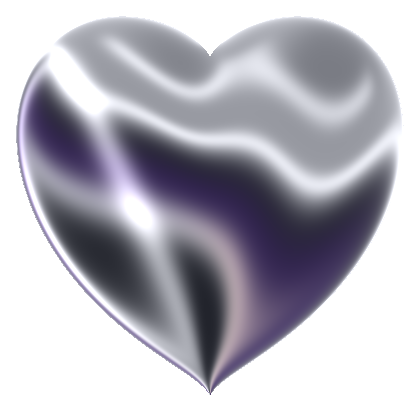
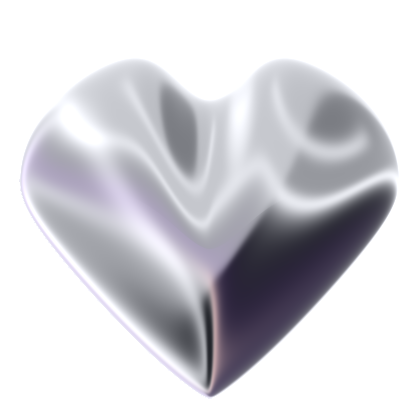
Reshape the chrome heart and show feed loading progress

diff --git a/blub-web/app/feed/page.tsx b/blub-web/app/feed/page.tsx
@@ -1,6 +1,7 @@
 "use client";
 import {useEffect,useState,FormEvent} from 'react';
-import {House,Users,Plus,Camera,Lock,Clock3,X,LogOut,ImagePlus,Check,Search,Trash2,LoaderCircle,Sparkles,UserRound,Heart} from 'lucide-react';
+import {House,Users,Plus,Camera,Lock,Clock3,X,LogOut,ImagePlus,Check,Search,Trash2,Sparkles,UserRound,Heart} from 'lucide-react';
+import { FeedLoader } from "./feed-loader";
 import { PostInteractions } from "./post-interactions";
 type Person={id:string;name:string;handle:string;bio:string};
 type Post={like_count:number;liked:number;comment_count:number;id:string;caption:string;created_at:number;name:string;handle:string;author:string};
@@ -12,8 +13,42 @@ const initial:Data={authenticated:false,me:null,posts:[],friends:[]};
 function Avatar({name,size=''}:{name:string;size?:string}){return <span className={'avatar '+size}>{name.slice(0,1).toUpperCase()}</span>}
 export default function Feed(){
  const [data,setData]=useState<Data>(initial),[loading,setLoading]=useState(true),[tab,setTab]=useState('feed'),[modal,setModal]=useState(''),[error,setError]=useState(''),[busy,setBusy]=useState(false),[query,setQuery]=useState(''),[results,setResults]=useState<Person[]>([]),[preview,setPreview]=useState(''),[file,setFile]=useState<File|null>(null),[notice,setNotice]=useState(''),[pendingAction,setPendingAction]=useState<PendingAction|null>(null);
- async function load(){const r=await fetch('/api/blub');const d=await r.json() as ApiResult;if(!r.ok)throw Error(d.error||"Something went wrong. Please try again.");setData({...initial,...d});}
- useEffect(()=>{load().catch(e=>setError(e.message)).finally(()=>setLoading(false))},[]);
+ const [pendingPhotos,setPendingPhotos]=useState<string[]>([]);
+ const [photoTotal,setPhotoTotal]=useState(0);
+ const showingLoader=loading || pendingPhotos.length>0;
+ async function load(signal?:AbortSignal){
+   const r=await fetch('/api/blub',{signal});
+   const d=await r.json() as ApiResult;
+   if(!r.ok)throw Error(d.error||"Something went wrong. Please try again.");
+   if(!signal?.aborted)setData({...initial,...d});
+   return d;
+ }
+ useEffect(()=>{
+   const controller=new AbortController();
+   const timeout=window.setTimeout(()=>controller.abort(),15000);
+   let active=true;
+   load(controller.signal).then(result=>{
+     if(!active)return;
+     const ids=(result.posts??[]).slice(0,2).map(post=>post.id);
+     setPhotoTotal(ids.length);
+     setPendingPhotos(ids);
+   }).catch(e=>{
+     if(active)setError(controller.signal.aborted?"The feed took too long to load. Refresh to try again.":e.message);
+   }).finally(()=>{
+     clearTimeout(timeout);
+     if(active)setLoading(false);
+   });
+   return ()=>{active=false;clearTimeout(timeout);controller.abort();};
+ },[]);
+ useEffect(()=>{
+   if(!photoTotal)return;
+   // A slow photo can finish inline once the feed is usable.
+   const timeout=window.setTimeout(()=>setPendingPhotos([]),2200);
+   return ()=>clearTimeout(timeout);
+ },[photoTotal]);
+ function photoSettled(id:string){
+   setPendingPhotos(ids=>ids.includes(id)?ids.filter(value=>value!==id):ids);
+ }
  useEffect(()=>()=>{if(preview)URL.revokeObjectURL(preview)},[preview]);
  useEffect(()=>{if(!modal)return;const previous=document.activeElement as HTMLElement;const element=document.querySelector('.modal') as HTMLElement;const controls=()=>Array.from(element.querySelectorAll<HTMLElement>('button:not(:disabled),a[href],input,textarea')).filter(x=>x.offsetParent!==null);controls()[1]?.focus();function key(e:KeyboardEvent){if(e.key==='Escape'&&!busy)setModal('');if(e.key==='Tab'){const list=controls(),first=list[0],last=list[list.length-1];if(e.shiftKey&&document.activeElement===first){e.preventDefault();last?.focus()}else if(!e.shiftKey&&document.activeElement===last){e.preventDefault();first?.focus()}}}document.addEventListener('keydown',key);const old=document.body.style.overflow;document.body.style.overflow='hidden';return()=>{document.removeEventListener('keydown',key);document.body.style.overflow=old;previous?.focus()}},[modal,busy]);
  async function act(body:Record<string,string>){setBusy(true);setError('');try{const r=await fetch('/api/blub',{method:'POST',headers:{'Content-Type':'application/json'},body:JSON.stringify(body)});const d=await r.json() as ApiResult;if(!r.ok)throw Error(d.error||"Something went wrong. Please try again.");await load();return true;}catch(e){setError((e as Error).message);return false;}finally{setBusy(false)}}
@@ -23,19 +58,19 @@ export default function Feed(){
  async function publish(e:FormEvent<HTMLFormElement>){e.preventDefault();if(!file)return;setBusy(true);setError('');const f=new FormData(e.currentTarget);f.set('photo',file);try{const r=await fetch('/api/blub',{method:'POST',body:f});const d=await r.json() as ApiResult;if(!r.ok)throw Error(d.error||"Something went wrong. Please try again.");await load();setModal('');setFile(null);setPreview('');setNotice('Photo posted.')}catch(e){setError((e as Error).message)}finally{setBusy(false)}}
  async function search(e:FormEvent){e.preventDefault();setBusy(true);setError('');try{const r=await fetch('/api/blub?action=search&q='+encodeURIComponent(query));const d=await r.json() as ApiResult;if(!r.ok)throw Error(d.error||"Something went wrong. Please try again.");setResults(d.users||[]);if(!d.users?.length)setNotice('No matching handles found.')}catch(e){setError((e as Error).message)}finally{setBusy(false)}}
  const accepted=data.friends.filter(f=>f.status==='accepted'),incoming=data.friends.filter(f=>f.status==='pending'&&f.recipient===data.me?.id);
- return <div className="app-shell"><header className="site-header"><div className="header-inner"><a className="wordmark" href="/" aria-label="Blub home"><img className="brand-symbol" src="/blub-icon.png" alt="" width="34" height="34"/>blub</a><nav className="desktop-nav" aria-label="Main navigation"><button className={tab==='feed'?'active':''} aria-current={tab==='feed'?'page':undefined} onClick={()=>setTab('feed')}><House size={17}/>Feed</button><button className={tab==='friends'?'active':''} aria-current={tab==='friends'?'page':undefined} onClick={()=>{if(data.me)setTab('friends');else open('profile')}}><Users size={17}/>Friends{incoming.length>0&&<span className="count">{incoming.length}</span>}</button><button className={tab==='profile'?'active':''} aria-current={tab==='profile'?'page':undefined} onClick={()=>{if(data.me)setTab('profile');else open('profile')}}><UserRound size={17}/>Profile</button></nav><div className="header-actions"><button className="primary header-share" onClick={()=>open('post')}><Plus size={17}/>Post a photo</button>{data.me?<button className="account-button" aria-label="Edit your profile" onClick={()=>open('profile')}><Avatar name={data.me.name}/></button>:<a className="signin-link" href="/signin-with-chatgpt?return_to=%2Ffeed" target="_top">Sign in</a>}</div></div></header>
+ return <>{showingLoader && <FeedLoader done={1+photoTotal-pendingPhotos.length} total={loading?undefined:1+photoTotal}/>}<div className="app-shell" inert={showingLoader}><header className="site-header"><div className="header-inner"><a className="wordmark" href="/" aria-label="Blub home"><img className="brand-symbol" src="/blub-icon.png" alt="" width="34" height="34"/>blub</a><nav className="desktop-nav" aria-label="Main navigation"><button className={tab==='feed'?'active':''} aria-current={tab==='feed'?'page':undefined} onClick={()=>setTab('feed')}><House size={17}/>Feed</button><button className={tab==='friends'?'active':''} aria-current={tab==='friends'?'page':undefined} onClick={()=>{if(data.me)setTab('friends');else open('profile')}}><Users size={17}/>Friends{incoming.length>0&&<span className="count">{incoming.length}</span>}</button><button className={tab==='profile'?'active':''} aria-current={tab==='profile'?'page':undefined} onClick={()=>{if(data.me)setTab('profile');else open('profile')}}><UserRound size={17}/>Profile</button></nav><div className="header-actions"><button className="primary header-share" onClick={()=>open('post')}><Plus size={17}/>Post a photo</button>{data.me?<button className="account-button" aria-label="Edit your profile" onClick={()=>open('profile')}><Avatar name={data.me.name}/></button>:<a className="signin-link" href="/signin-with-chatgpt?return_to=%2Ffeed" target="_top">Sign in</a>}</div></div></header>
  <main><div className="topbar"><span>Photos from friends</span><span className="private-label"><Lock size={13}/>Friends only</span></div><div className="content-grid"><section className="main-column"><div className="page-heading"><div><div className="eyebrow">{tab==='friends'?'FRIENDS':tab==='profile'?'PROFILE':'BLUB'}</div><h1>{tab==='friends'?<>Your <span className="gradient-text">friends.</span></>:tab==='profile'?<>Your <span className="gradient-text">profile.</span></>:<>Your <span className="gradient-text">feed.</span></>}</h1><p>{tab==='friends'?'Find friends and manage requests.':tab==='profile'?'Your profile and photos.':'Photos from you and your friends.'}</p></div><span className="heading-orbit" aria-hidden="true"><Sparkles size={26}/></span></div>
  {error&&<div className="alert" role="alert">{error}<button onClick={()=>setError('')} aria-label="Dismiss error"><X size={16}/></button></div>}
  {notice&&<div className="notice" role="status">{notice}<button onClick={()=>setNotice('')} aria-label="Dismiss notification"><X size={16}/></button></div>}
- {loading?<div className="loading"><LoaderCircle className="spin"/>Loading…</div>:tab==='friends'?<><div className="section-title"><h2>Find your friends</h2><span>By their Blub handle</span></div><form className="search-form" onSubmit={search}><Search size={20}/><input aria-label="Find by handle" placeholder="Search @handle" value={query} onChange={e=>setQuery(e.target.value)} minLength={2} required/><button disabled={busy}>Find</button></form>{results.map(p=>{const f=data.friends.find(f=>f.sender===p.id||f.recipient===p.id);return <div className="person-row" key={p.id}><Avatar name={p.name}/><div><b>{p.name}</b><small>@{p.handle}</small></div>{f?<span className="pill">{f.status==='accepted'?'Friends':'Request pending'}</span>:<button disabled={busy} className="small-button" onClick={()=>act({action:'request',user:p.id})}>Add friend</button>}</div>})}<h2 className="list-heading">Friend requests {incoming.length>0&&`(${incoming.length})`}</h2>{incoming.length===0&&<p className="muted">No pending requests.</p>}{incoming.map(f=><div className="person-row" key={f.id}><Avatar name={f.name}/><div><b>{f.name}</b><small>@{f.handle}</small></div><button disabled={busy} className="small-button" onClick={()=>act({action:'accept',id:f.id})}>Accept</button><button disabled={busy} className="text-button" onClick={()=>act({action:'remove',id:f.id})}>Decline</button></div>)}<h2 className="list-heading">Friends · {accepted.length}</h2>{data.friends.filter(f=>!incoming.includes(f)).map(f=><div className="person-row" key={f.id}><Avatar name={f.name}/><div><b>{f.name}</b><small>@{f.handle} · {f.status==='accepted'?'Friends':'Request sent'}</small></div><button disabled={busy} className="text-button" onClick={()=>{askConfirmation({action:'remove',id:f.id,title:f.status==='accepted'?'Remove this friend?':'Cancel this request?',description:f.status==='accepted'?'You’ll no longer see each other’s photos. You can send a new friend request later.':'They won’t be able to accept this request. You can send a new request later.',label:f.status==='accepted'?'Remove friend':'Cancel request'})}}>{f.status==='accepted'?'Remove':'Cancel'}</button></div>)}{!data.friends.length&&<div className="soft-card"><Users/><h3>No friends added yet.</h3><p>Ask a friend for their handle, then send a request above. Photos are shared only after they accept.</p></div>}</>:<>
+ {loading?null:tab==='friends'?<><div className="section-title"><h2>Find your friends</h2><span>By their Blub handle</span></div><form className="search-form" onSubmit={search}><Search size={20}/><input aria-label="Find by handle" placeholder="Search @handle" value={query} onChange={e=>setQuery(e.target.value)} minLength={2} required/><button disabled={busy}>Find</button></form>{results.map(p=>{const f=data.friends.find(f=>f.sender===p.id||f.recipient===p.id);return <div className="person-row" key={p.id}><Avatar name={p.name}/><div><b>{p.name}</b><small>@{p.handle}</small></div>{f?<span className="pill">{f.status==='accepted'?'Friends':'Request pending'}</span>:<button disabled={busy} className="small-button" onClick={()=>act({action:'request',user:p.id})}>Add friend</button>}</div>})}<h2 className="list-heading">Friend requests {incoming.length>0&&`(${incoming.length})`}</h2>{incoming.length===0&&<p className="muted">No pending requests.</p>}{incoming.map(f=><div className="person-row" key={f.id}><Avatar name={f.name}/><div><b>{f.name}</b><small>@{f.handle}</small></div><button disabled={busy} className="small-button" onClick={()=>act({action:'accept',id:f.id})}>Accept</button><button disabled={busy} className="text-button" onClick={()=>act({action:'remove',id:f.id})}>Decline</button></div>)}<h2 className="list-heading">Friends · {accepted.length}</h2>{data.friends.filter(f=>!incoming.includes(f)).map(f=><div className="person-row" key={f.id}><Avatar name={f.name}/><div><b>{f.name}</b><small>@{f.handle} · {f.status==='accepted'?'Friends':'Request sent'}</small></div><button disabled={busy} className="text-button" onClick={()=>{askConfirmation({action:'remove',id:f.id,title:f.status==='accepted'?'Remove this friend?':'Cancel this request?',description:f.status==='accepted'?'You’ll no longer see each other’s photos. You can send a new friend request later.':'They won’t be able to accept this request. You can send a new request later.',label:f.status==='accepted'?'Remove friend':'Cancel request'})}}>{f.status==='accepted'?'Remove':'Cancel'}</button></div>)}{!data.friends.length&&<div className="soft-card"><Users/><h3>No friends added yet.</h3><p>Ask a friend for their handle, then send a request above. Photos are shared only after they accept.</p></div>}</>:<>
  {tab==='profile'&&data.me&&<div className="profile-card"><Avatar name={data.me.name} size="large"/><div><h2>{data.me.name}</h2><p>@{data.me.handle}</p>{data.me.bio&&<p>{data.me.bio}</p>}</div><button className="text-button" onClick={()=>open('profile')}>Edit profile</button></div>}
  {tab==='feed'&&<button className="composer" onClick={()=>open('post')}><Avatar name={data.me?.name||'You'}/><span>Post a photo…</span><span className="composer-camera"><ImagePlus size={21}/></span></button>}
  <div className="feed-label"><h2>{tab==='profile'?'Your posts':'The latest'}</h2><span><Clock3 size={14}/>Newest first</span></div>
- {(tab==='profile'?data.posts.filter(p=>p.author===data.me?.id):data.posts).map(p=><article className="post" key={p.id}><header><Avatar name={p.name}/><div><b>{p.name}</b><small>@{p.handle} · {new Date(p.created_at).toLocaleDateString(undefined,{month:'short',day:'numeric'})}</small></div><Lock size={15}/>{p.author===data.me?.id&&<button className="icon-button" aria-label="Delete post" disabled={busy} onClick={()=>{askConfirmation({action:'delete',id:p.id,title:'Delete this post?',description:'This photo and its caption will be permanently removed from Blub.',label:'Delete post'})}}><Trash2 size={16}/></button>}</header><PostInteractions post={p} act={act} busy={busy}/><footer><span><Lock size={13}/>Friends only</span><time dateTime={new Date(p.created_at).toISOString()}>{new Date(p.created_at).toLocaleTimeString(undefined,{hour:"numeric",minute:"2-digit"})}</time></footer></article>)}
+ {(tab==='profile'?data.posts.filter(p=>p.author===data.me?.id):data.posts).map(p=><article className="post" key={p.id}><header><Avatar name={p.name}/><div><b>{p.name}</b><small>@{p.handle} · {new Date(p.created_at).toLocaleDateString(undefined,{month:'short',day:'numeric'})}</small></div><Lock size={15}/>{p.author===data.me?.id&&<button className="icon-button" aria-label="Delete post" disabled={busy} onClick={()=>{askConfirmation({action:'delete',id:p.id,title:'Delete this post?',description:'This photo and its caption will be permanently removed from Blub.',label:'Delete post'})}}><Trash2 size={16}/></button>}</header><PostInteractions post={p} act={act} busy={busy} onPhotoSettled={pendingPhotos.includes(p.id)?()=>photoSettled(p.id):undefined}/><footer><span><Lock size={13}/>Friends only</span><time dateTime={new Date(p.created_at).toISOString()}>{new Date(p.created_at).toLocaleTimeString(undefined,{hour:"numeric",minute:"2-digit"})}</time></footer></article>)}
  {!(tab==='profile'?data.posts.filter(p=>p.author===data.me?.id):data.posts).length&&<div className="welcome-card"><div className="welcome-art" aria-hidden="true"><span className="orbit orbit-one"/><span className="orbit orbit-two"/><span className="art-spark spark-one">✦</span><span className="art-spark spark-two">✧</span><div className="memory-card memory-back"><div className="memory-sunset"><span/></div><div className="memory-lines"><i/><i/></div></div><div className="memory-card memory-front"><div className="memory-flower"><span>●</span><i>●</i></div><div className="memory-lines"><i/><i/></div></div><span className="floating-heart"><Heart size={23} fill="currentColor"/></span></div><div className="welcome-copy"><span className="pill"><Lock size={13}/>Friends only</span><h2>No <span className="gradient-text">photos</span> yet.</h2><p>{tab==='profile'?'Your photos will appear here.':'Post a photo or add friends to see their posts here.'}</p><button className="primary" onClick={()=>open('post')}><Plus size={18}/>{!data.authenticated?'Sign in to Blub':!data.me?'Create your profile':'Post your first photo'}</button><small>{!data.authenticated?'Use your ChatGPT account to sign in.':'Only accepted friends can see your photos.'}</small></div></div>}
  {data.posts.length>0&&<div className="end-note"><p>{data.posts.length>=100?'Showing the latest 100 posts.':'End of feed.'}</p></div>}</>}
  </section><aside className="right-column"><div className="circle-card"><div className="section-title"><h3>Friends</h3><Users size={18}/></div><div className="circle-avatars">{accepted.length?accepted.slice(0,4).map(f=><Avatar name={f.name} key={f.id}/>):<><span className="circle-placeholder"><UserRound size={19}/></span><span className="circle-placeholder"><UserRound size={19}/></span><span className="circle-placeholder"><UserRound size={19}/></span></>}<button aria-label="Find friends" onClick={()=>{if(data.me)setTab('friends');else open('profile')}}><Plus size={19}/></button></div><p>{accepted.length?`${accepted.length} ${accepted.length===1?'friend':'friends'} added.`:'No friends added yet.'}</p><button className="secondary full" onClick={()=>{if(data.me)setTab('friends');else open('profile')}}>Find your friends</button></div>{(!data.me||!accepted.length||!data.posts.some(p=>p.author===data.me?.id))&&<div className="getting-started"><div className="section-title"><h3>Get started</h3><Sparkles size={17}/></div><button className="setup-step" onClick={()=>open('profile')}><span className={data.me?'step-icon complete':'step-icon'}>{data.me?<Check size={16}/>:<UserRound size={17}/>}</span><span><b>Create a profile</b><small>Choose your name and handle.</small></span></button><button className="setup-step" onClick={()=>{if(data.me)setTab('friends');else open('profile')}}><span className={accepted.length?'step-icon complete':'step-icon'}>{accepted.length?<Check size={16}/>:<Users size={17}/>}</span><span><b>Add a friend</b><small>Find them with their @handle.</small></span></button><button className="setup-step" onClick={()=>open('post')}><span className={data.posts.some(p=>p.author===data.me?.id)?'step-icon complete':'step-icon'}>{data.posts.some(p=>p.author===data.me?.id)?<Check size={16}/>:<Camera size={17}/>}</span><span><b>Post a photo</b><small>Choose a photo and add a caption.</small></span></button></div>}<div className="manifesto"><h3>Photo privacy</h3><p>Your photos are visible to you and accepted friends. Removing a friend ends their access to your posts.</p><div><Lock size={14}/>Friend requests must be accepted before photos are shared.</div></div><footer className="side-footer">blub <span>· Friends-only photos</span></footer></aside></div></main>
  <nav className="mobile-nav" aria-label="Mobile navigation"><button className={tab==='feed'?'selected':''} onClick={()=>setTab('feed')}><House/>Feed</button><button className={tab==='friends'?'selected':''} onClick={()=>{if(data.me)setTab('friends');else open('profile')}}><Users/>Friends</button><button className="mobile-add" aria-label="Post a photo" onClick={()=>open('post')}><Plus/></button><button className={tab==='profile'?'selected':''} onClick={()=>{if(data.me)setTab('profile');else open('profile')}}><Camera/>Profile</button></nav>
  {modal&&<div className="modal-backdrop" onClick={e=>{if(e.target===e.currentTarget&&!busy)setModal('')}}><section className="modal" role="dialog" aria-modal="true" aria-labelledby="modal-title"><button className="close icon-button" aria-label="Close dialog" disabled={busy} onClick={()=>setModal('')}><X/></button><div className="eyebrow">BLUB</div><h2 id="modal-title">{modal==='confirm'?pendingAction?.title:modal==='profile'?(data.me?'Edit profile':'Create your profile'): 'New post'}</h2><p className="muted">{modal==='confirm'?pendingAction?.description:modal==='profile'?'Pick a handle so your friends can find you.':'Choose a photo and add an optional caption.'}</p>{error&&<p className="alert" role="alert">{error}</p>}{modal==='confirm'?<div className="confirm-actions"><button className="secondary" disabled={busy} onClick={()=>setModal('')}>{pendingAction?.action==='delete'?'Keep post':'Go back'}</button><button className="primary danger" disabled={busy} onClick={async()=>{if(pendingAction&&await act({action:pendingAction.action,id:pendingAction.id})){setModal('');setPendingAction(null)}}}>{busy?'Saving…':pendingAction?.label}</button></div>:modal==='profile'?<form onSubmit={saveProfile}><label>Your name<input name="name" defaultValue={data.me?.name} autoFocus required maxLength={50} autoComplete="name"/></label><label>Your handle<input name="handle" defaultValue={data.me?.handle} required pattern="[a-z0-9_]{3,24}" minLength={3} maxLength={24} placeholder="e.g. sunday_morning" autoCapitalize="none" autoComplete="off"/></label><small>3–24 lowercase letters, numbers, or underscores.</small><label>Bio<textarea name="bio" defaultValue={data.me?.bio} maxLength={200} rows={3} placeholder="Add a short bio (optional)"/></label><button className="primary full" disabled={busy}>{busy?'Saving…':'Save profile'}<Check size={18}/></button>{data.me&&<a className="signout" href="/signout-with-chatgpt?return_to=%2F" target="_top"><LogOut size={15}/>Sign out</a>}</form>:<form onSubmit={publish}><label className="upload">{preview?<img src={preview} alt="Photo preview"/>:<><ImagePlus size={34}/><b>Choose a photo</b><span>JPEG, PNG, or WebP · up to 8 MB</span></>}<input type="file" accept="image/jpeg,image/png,image/webp" aria-label="Choose photo" onChange={e=>{const f=e.target.files?.[0];if(f){if(f.size>8*1024*1024||!['image/jpeg','image/png','image/webp'].includes(f.type)){setFile(null);setPreview('');e.target.value='';setError('Choose a JPEG, PNG, or WebP photo smaller than 8 MB.');return}setFile(f);setPreview(URL.createObjectURL(f));setError('')}}}/></label><label>Caption<textarea name="caption" placeholder="Add a caption (optional)" maxLength={1500} rows={3}/></label><div className="privacy-note"><Lock size={14}/>Shared only with your accepted friends.</div><button className="primary full" disabled={busy||!file}>{busy?'Sharing…':'Post a photo'}<Plus size={18}/></button></form>}</section></div>}
- </div>
+ </div></>
 }

diff --git a/blub-web/app/globals.css b/blub-web/app/globals.css
@@ -420,3 +420,27 @@ input::placeholder, textarea::placeholder { color: var(--subtle); opacity: 1; }
 .post-comments input { min-width: 0; flex: 1; }
 .post-comments p { overflow-wrap: anywhere; font-size: .95rem; }
 .post-comments b { color: var(--accent); }
+
+.feed-loader {
+  position: fixed; inset: 0; z-index: 80;
+  display: flex; flex-direction: column; align-items: center; justify-content: center;
+  gap: 20px; background: var(--bg, #08090c);
+}
+.feed-loader img { animation: feed-logo-turn 1.6s linear infinite; }
+@keyframes feed-logo-turn { to { transform: rotate(1turn); } }
+.feed-loader progress {
+  appearance: none; width: 128px; height: 4px; border: 0;
+  border-radius: 4px; overflow: hidden; background: #33303d;
+}
+.feed-loader progress::-webkit-progress-bar { background: #33303d; }
+.feed-loader progress::-webkit-progress-value { background: var(--gradient); }
+.feed-loader progress::-moz-progress-bar { background: var(--gradient); }
+.feed-loader progress:indeterminate {
+  background: var(--gradient) left center / 42% 100% no-repeat, #33303d;
+  animation: feed-progress 1.1s ease-in-out infinite alternate;
+}
+.feed-loader progress:indeterminate::-webkit-progress-bar { background: transparent; }
+@keyframes feed-progress { to { background-position: right center; } }
+@media (prefers-reduced-motion: reduce) {
+  .feed-loader img, .feed-loader progress { animation: none; }
+}

diff --git a/blub-web/app/feed/post-interactions.tsx b/blub-web/app/feed/post-interactions.tsx
@@ -9,10 +9,11 @@ type Comment = { id: number; handle: string; body: string };
 type Props = {
   post: Post;
   busy: boolean;
+  onPhotoSettled?: () => void;
   act: (body: Record<string, string>) => Promise<boolean>;
 };
 
-export function PostInteractions({ post, busy, act }: Props) {
+export function PostInteractions({ post, busy, act, onPhotoSettled }: Props) {
   preload("/chrome-heart.png", { as: "image" });
   const [pulse, setPulse] = useState(0);
   const [open, setOpen] = useState(false);
@@ -65,7 +66,7 @@ export function PostInteractions({ post, busy, act }: Props) {
   return <>
     <div className="post-media" onDoubleClick={() => like(false)}>
       <img className="post-photo" src={"/api/blub?action=photo&id=" + post.id}
-        alt={post.caption || "Photo shared with friends"} loading="lazy"/>
+        alt={post.caption || "Photo shared with friends"} loading={onPhotoSettled ? "eager" : "lazy"} onLoad={onPhotoSettled} onError={onPhotoSettled}/>
       {pulse > 0 && <img key={pulse} className="like-pulse" src="/chrome-heart.png" alt=""
         onAnimationEnd={() => setPulse(0)}/>}
     </div>

diff --git a/blub-web/app/feed/feed-loader.tsx b/blub-web/app/feed/feed-loader.tsx
@@ -1,0 +1,6 @@
+export function FeedLoader({ done, total }: { done: number; total?: number }) {
+  return <div className="feed-loader">
+    <img src="/blub-icon.png" alt="" width="64" height="64"/>
+    <progress aria-label="Loading feed and photos" value={total ? done : undefined} max={total || 1}/>
+  </div>;
+}
